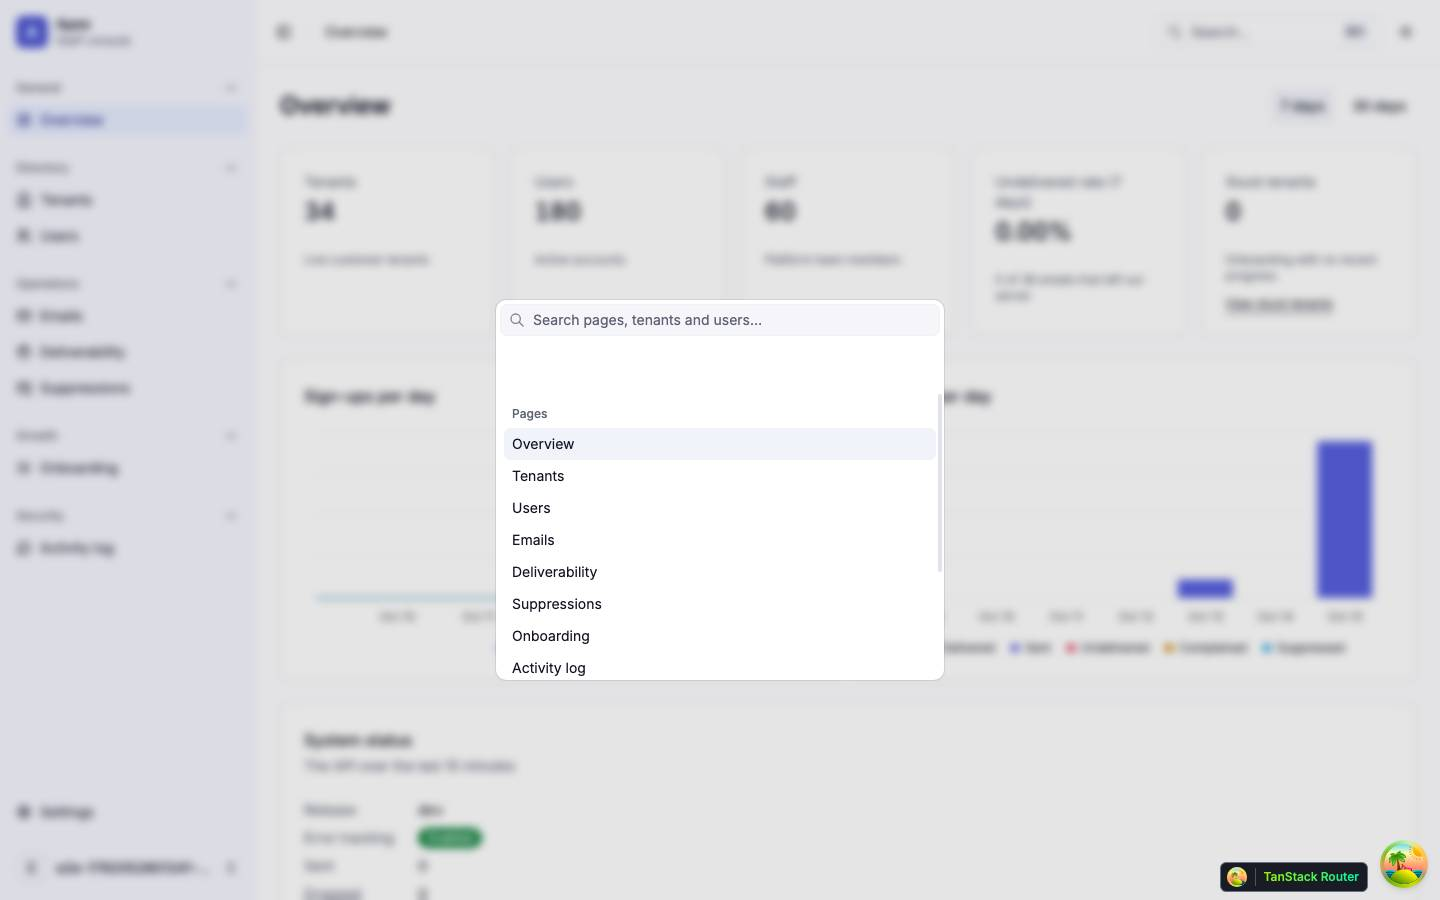
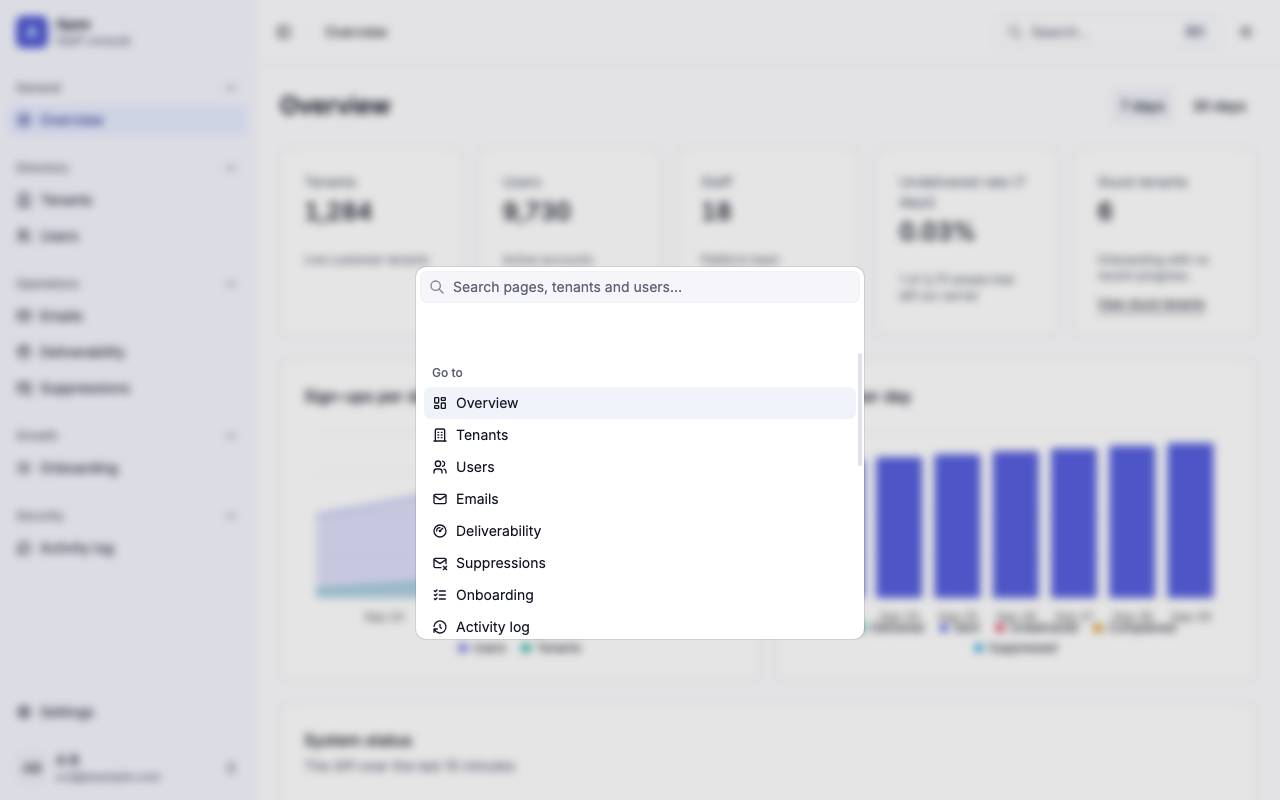
docs(pages): after-shots for the palette
Renames the walk's shots to palette--before-*.jpg, keeps them in the Before section and the findings' evidence links, and adds an After section with the five shots taken from the fixtures harness.

Claude-Session: https://claude.ai/code/session_01SrFBuNFEo3j8w4hvoUStHW

diff --git a/docs/pages/palette.md b/docs/pages/palette.md
@@ -26,17 +26,28 @@ The command palette in the staff shell, opened by ⌘K on Apple platforms or Ctr
 - **Lift on a suppression**: Lift is a list row's action, and the palette has no row to run it on; it stays in the [Suppressions](suppressions.md) table ([F-palette-6](findings.md#f-palette-6)).
 - **Emails by recipient or id, and filtered lists**: the palette neither searches emails nor opens a list with a filter applied; both are a later `[P5 palette]` follow-up ([F-palette-8](findings.md#f-palette-8)).
 
+## After
+
+The palette as built, from the fixtures harness: an admin, the harness's data.
+
+![The palette, open on the overview with no term](img/palette/palette--default.jpg)
+
+| Search                                                 | Error                                                                                              | This page                                                                                         | Mobile                                          |
+| ------------------------------------------------------ | -------------------------------------------------------------------------------------------------- | ------------------------------------------------------------------------------------------------- | ----------------------------------------------- |
+| ![](img/palette/palette--search.jpg)                   | ![](img/palette/palette--error.jpg)                                                                | ![](img/palette/palette--page.jpg)                                                                | ![](img/palette/palette--mobile.jpg)            |
+| `acme`: the Tenants group's one result, with its slug. | Tenants search failing, term `acme`: the "Search failed. Try again" row in place of "No results.". | Acme Corp's page, no term: Recent, then This page with the tenant's actions first, then its tabs. | Opened from the header's search icon at 390 px. |
+
 ## Before
 
 The walk and the shots below show the palette before the shared shell, This page, Recent, Theme and Account. Its dialog was described "Search for a page or a tenant.", and a failed search said "Some results could not be loaded." over "No results.".
 
-![The palette, open with no term](img/palette/palette--default.jpg)
+![The palette, open with no term](img/palette/palette--before-default.jpg)
 
 The palette lists only places to go: it runs no action. In the walk (an owner, the dev data), the empty palette listed thirteen pages; the term `e2e` sent one tenants and one users request after the debounce and listed eight tenants, five of them reading "Capture Co" with nothing to tell them apart, and eight users; `theme`, `settings`, `sign out` and `zzzz-no-match` each gave "No results."; with the tenants search answering 500, the palette said "Some results could not be loaded." over "No results.", with no way to retry but typing again. With no term, an empty status line and the list's padding leave a band of about 56 px between the input and the first group.
 
-| Search                                               | Empty                               | Error                                                                         | Mobile                                                                                      |
-| ---------------------------------------------------- | ----------------------------------- | ----------------------------------------------------------------------------- | ------------------------------------------------------------------------------------------- |
-| ![](img/palette/palette--search.jpg)                 | ![](img/palette/palette--empty.jpg) | ![](img/palette/palette--error.jpg)                                           | ![](img/palette/palette--mobile.jpg)                                                        |
-| `e2e`: the Tenants group, then Users below the fold. | `zzzz-no-match`: "No results."      | Tenants search failing: "Some results could not be loaded." and "No results." | Opened from the header's search icon at 390 px; the dialog fills the width less the gutter. |
+| Search                                               | Empty                                      | Error                                                                         | Mobile                                                                                      |
+| ---------------------------------------------------- | ------------------------------------------ | ----------------------------------------------------------------------------- | ------------------------------------------------------------------------------------------- |
+| ![](img/palette/palette--before-search.jpg)          | ![](img/palette/palette--before-empty.jpg) | ![](img/palette/palette--before-error.jpg)                                    | ![](img/palette/palette--before-mobile.jpg)                                                 |
+| `e2e`: the Tenants group, then Users below the fold. | `zzzz-no-match`: "No results."             | Tenants search failing: "Some results could not be loaded." and "No results." | Opened from the header's search icon at 390 px; the dialog fills the width less the gutter. |
 
 Findings: [F-palette-1](findings.md#f-palette-1), [F-palette-2](findings.md#f-palette-2), [F-palette-3](findings.md#f-palette-3), [F-palette-4](findings.md#f-palette-4), [F-palette-5](findings.md#f-palette-5), [F-palette-6](findings.md#f-palette-6), [F-palette-7](findings.md#f-palette-7), [F-palette-8](findings.md#f-palette-8), [F-palette-9](findings.md#f-palette-9), [F-palette-10](findings.md#f-palette-10)

diff --git a/docs/pages/findings.md b/docs/pages/findings.md
@@ -386,7 +386,7 @@ Status: fixed. This page lists Copy tenant ID, Copy user ID and Copy email ID on
 
 ### F-palette-5
 
-With no term the palette shows the same thirteen pages every time ([shot](img/palette/palette--default.jpg)). The tenants and users staff open most are reachable only by typing a search that goes to the API. Fix: a Recent group of the last tenants and users opened, kept per browser.
+With no term the palette shows the same thirteen pages every time ([shot](img/palette/palette--before-default.jpg)). The tenants and users staff open most are reachable only by typing a search that goes to the API. Fix: a Recent group of the last tenants and users opened, kept per browser.
 
 Status: fixed. Recent lists the tenants and users whose pages were opened lately, per user in `localStorage` ([palette.md](palette.md#the-command-palette)). `tests/unit/components/features/command-palette.test.tsx` ("lists recent tenants and users, newest first, a user inside Pii") and `tests/unit/components/features/command-palette-sources.test.tsx` ("records the tenant in Recent once it loads, with its slug", "forgets the tenant when its page answers 404") cover it.
 
@@ -398,7 +398,7 @@ Status: partly fixed. This page lists the tenant actions, the user actions and R
 
 ### F-palette-7
 
-A tenant result is a building icon and the tenant's name. In the walk the term `e2e` listed five rows reading "Capture Co" ([shot](img/palette/palette--search.jpg)); nothing shows which is which. Users show their email and name, which do tell them apart. Fix: the slug, and the state when it is not active, beside a tenant's name.
+A tenant result is a building icon and the tenant's name. In the walk the term `e2e` listed five rows reading "Capture Co" ([shot](img/palette/palette--before-search.jpg)); nothing shows which is which. Users show their email and name, which do tell them apart. Fix: the slug, and the state when it is not active, beside a tenant's name.
 
 Status: fixed. A tenant row shows its slug, and "Suspended" or "Archived" when it is not active ([palette.md](palette.md#the-command-palette)). `tests/unit/components/features/command-palette.test.tsx` ("finds tenants by name with their slug, and the state when not active, asking for no total") covers it.
 
@@ -410,7 +410,7 @@ Status: partly fixed. Go to lists Settings, and This page lists the open tenant'
 
 ### F-palette-9
 
-When a search fails, the palette shows "Some results could not be loaded." in its status line and "No results." under it, with no retry; typing again is the only way to ask again ([shot](img/palette/palette--error.jpg)). With no term, the empty status paragraph and the list's padding leave about 56 px of blank space between the input and the first group ([shot](img/palette/palette--default.jpg)). Fix: a failure row with Try again in place of "No results.", and no space held by an empty status line.
+When a search fails, the palette shows "Some results could not be loaded." in its status line and "No results." under it, with no retry; typing again is the only way to ask again ([shot](img/palette/palette--before-error.jpg)). With no term, the empty status paragraph and the list's padding leave about 56 px of blank space between the input and the first group ([shot](img/palette/palette--before-default.jpg)). Fix: a failure row with Try again in place of "No results.", and no space held by an empty status line.
 
 Status: fixed. A failed search shows a "Search failed. Try again" row in place of "No results.", and an empty status line takes no room ([palette.md](palette.md#the-command-palette)). The shared suite's `tests/unit/components/shared/command-palette/command-palette-shell.test.tsx` ("offers Try again in place of "No results.", and the row keeps the palette open", "keeps the status line empty, and taking no room, when nothing is pending") covers it.
 
